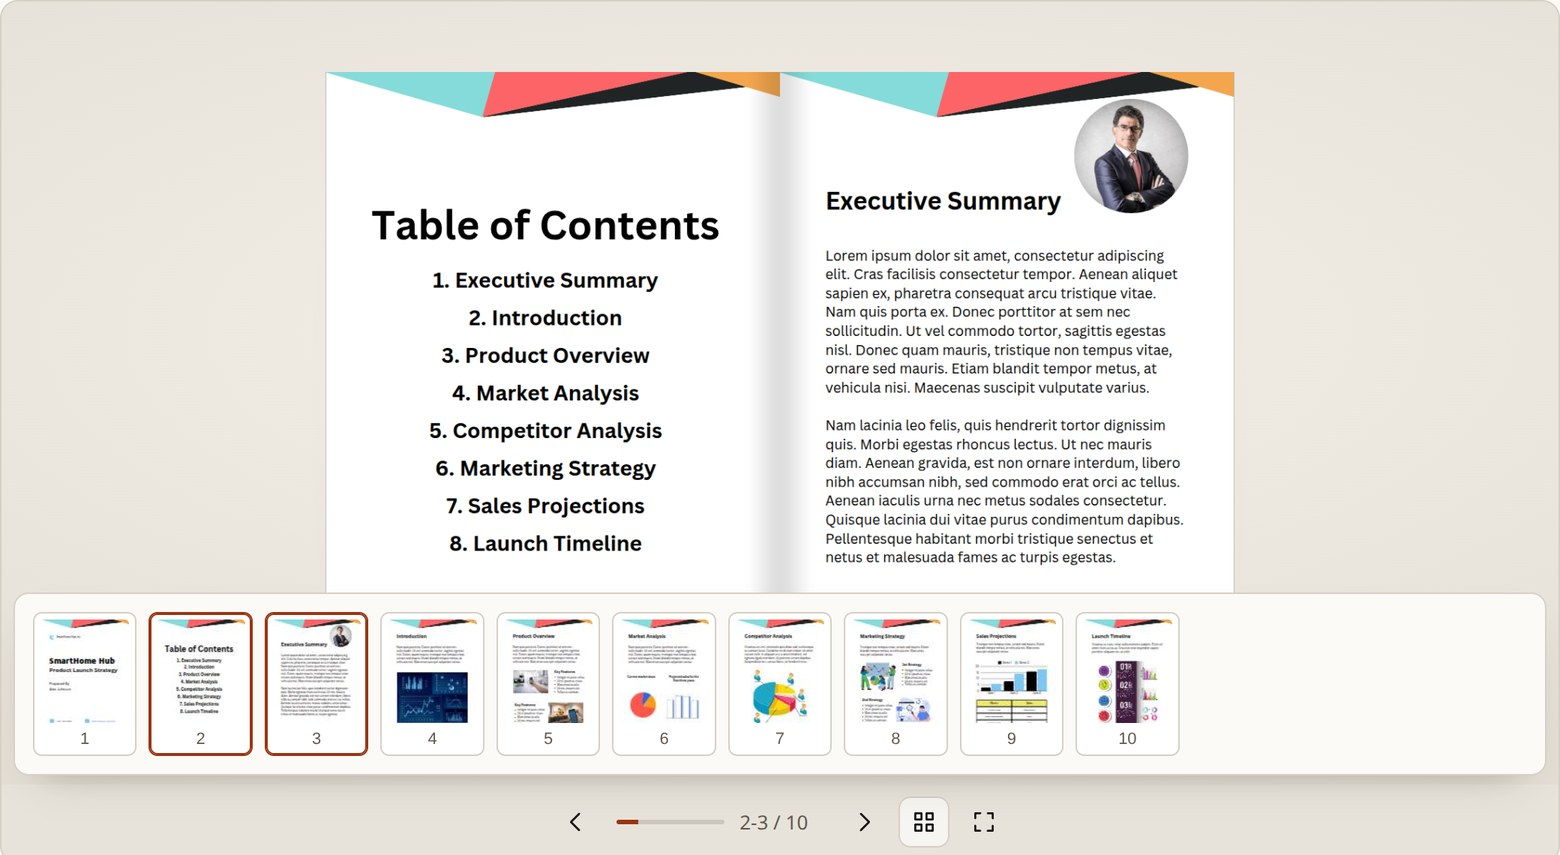
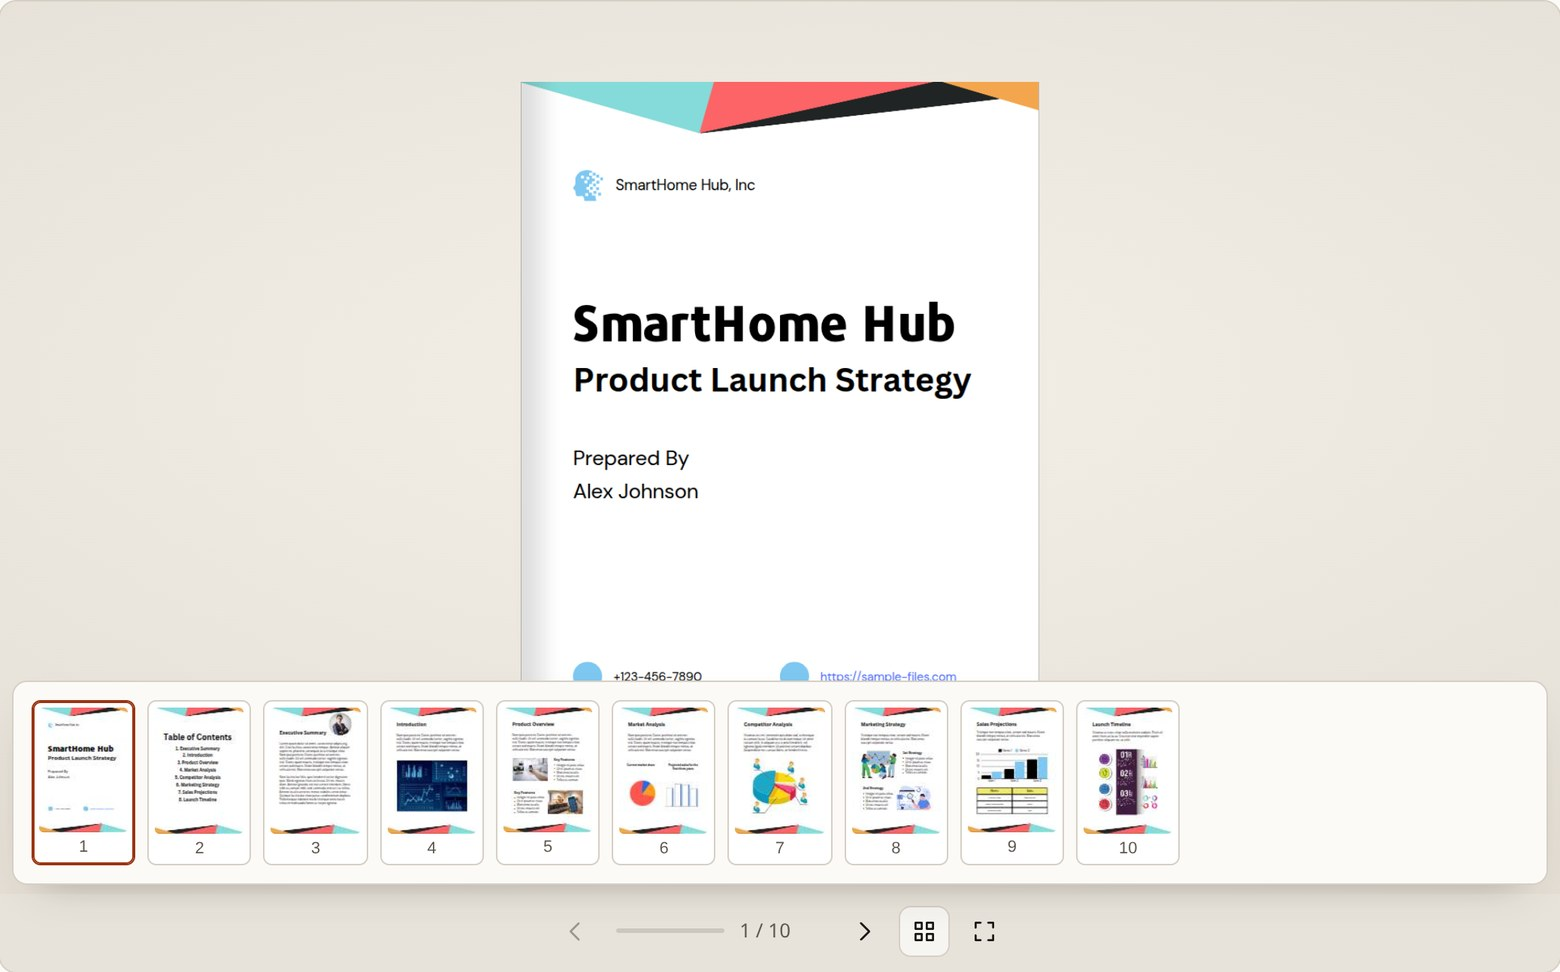
feat: take the size from the container, and stop cropping thumbnails
The viewer already measured its own box, but two things broke in a short
column: the host carried a fixed min-height, which overrode a 300px card, and
the toolbar had no narrow-width handling.

- .fp-host keeps height: 100% and falls back to 240px through
  --fp-min-height, which a caller can lower to 0.
- Container queries drop the progress bar below 300px and the counter below
  220px, so the four buttons always fit.
- The demo gets a "fits the column, not just the row" section: a 380px card,
  a 240px card, and the CSS snippet that produces them.

Thumbnails were cropped in every size: the strip stretched its rows to fit the
panel, so a tile could be shorter than the page inside it. Rows now take their
content height, and each image carries width/height attributes so its box is
reserved before the JPEG decodes.

Tests: 47 browser checks (two new ones assert the image and its box are equal
in the wide drawer and in the 240px card), 26 unit tests.

Changed region(s): [[0.0, 0.0608, 0.9846, 0.9123], [0.4, 0.9427, 0.5231, 0.9731], [0.5846, 0.9427, 0.6462, 0.9731]]

diff --git a/demo/index.html b/demo/index.html
@@ -47,6 +47,23 @@
     overflow: hidden;
     background: var(--desk);
   }
+  .cards {
+    display: flex;
+    flex-wrap: wrap;
+    gap: 26px;
+    align-items: flex-start;
+  }
+  .figure { margin: 0; flex: 0 1 380px; max-width: 100%; }
+  .figure.is-narrow { flex-basis: 240px; }
+  .figure-book {
+    border: 1px solid var(--line);
+    border-radius: 10px;
+    overflow: hidden;
+    background: var(--desk);
+  }
+  .figure figcaption { margin-top: 8px; color: var(--muted); font-size: 13px; }
+  .figure-note { flex: 1 1 300px; min-width: 240px; }
+  .figure-note p { margin-top: 0; color: var(--muted); }
   .hint {
     margin: 10px 0 0;
     color: var(--muted);
@@ -119,6 +136,46 @@
     <span id="page-count">Loading</span>. Drag horizontally to turn, click a side
     to step, or press the arrow keys.
   </p>
+
+  <section>
+    <h2>Fits the column, not just the row</h2>
+    <p style="margin-top:0;max-width:64ch;color:var(--muted)">
+      The viewer measures its own container, so a <code>col-5</code>, a card or a
+      sidebar is enough. The pages scale to that width, and below
+      <code>720px</code> the spread collapses to a single page on its own.
+    </p>
+    <div class="cards">
+      <figure class="figure">
+        <div class="figure-book" style="height: 440px">
+          <div data-flip-pdf data-src="./sample.pdf" data-label="Sample PDF in a 380px card"></div>
+        </div>
+        <figcaption>A 380px card: single page, pages sized to the height.</figcaption>
+      </figure>
+      <figure class="figure is-narrow">
+        <div class="figure-book" style="height: 320px">
+          <div data-flip-pdf data-src="./sample.pdf" data-label="Sample PDF in a 240px card"></div>
+        </div>
+        <figcaption>A 240px card: the progress bar drops out, the counter and buttons stay.</figcaption>
+      </figure>
+      <div class="figure-note">
+        <p>Size it with CSS, not with the plugin:</p>
+<pre><code>.card { width: 380px; height: 440px; }
+
+&lt;div class="card"&gt;
+  &lt;div data-flip-pdf
+       data-src="book.pdf"
+       style="height: 100%"&gt;&lt;/div&gt;
+&lt;/div&gt;
+</code></pre>
+        <p style="margin-bottom:0">
+          Give it a height and the book fills that box at whatever width the
+          column gives. With no height at all it falls back to
+          <code>240px</code>; <code>--fp-min-height: 0</code> removes even that
+          fallback so a short card never overflows.
+        </p>
+      </div>
+    </div>
+  </section>
 
   <section>
     <div class="split">

diff --git a/src/styles.css b/src/styles.css
@@ -8,9 +8,15 @@
   --fp-line: #d6cfc4;
   --fp-accent: #9a3412;
   --fp-radius: 12px;
+  /* The viewer fills the parent's height. A parent with no height gets this
+     floor instead, which a card may lower to 0. */
+  --fp-min-height: 240px;
   display: block;
+  width: 100%;
   height: 100%;
-  min-height: 360px;
+  /* A flex or grid parent must be able to shrink the book to its column. */
+  min-width: 0;
+  min-height: var(--fp-min-height);
   container-type: inline-size;
 }
 
@@ -218,6 +224,10 @@
 .fp-thumbs-grid {
   display: grid;
   grid-template-columns: repeat(auto-fill, minmax(64px, 1fr));
+  /* Rows take the height of the page, never the height of the panel: a
+     stretched row is shorter than its image and crops the thumbnail. */
+  grid-auto-rows: max-content;
+  align-content: start;
   gap: 8px;
   width: 100%;
   overflow-y: auto;
@@ -226,14 +236,15 @@
 
 .fp-thumb {
   position: relative;
-  display: grid;
+  display: flex;
+  flex-direction: column;
+  align-items: stretch;
   gap: 4px;
   padding: 4px;
   border: 1px solid var(--fp-line);
   border-radius: 6px;
   background: #fff;
   cursor: pointer;
-  aspect-ratio: 0.72;
   overflow: hidden;
   transition: border-color 140ms ease, box-shadow 140ms ease;
 }
@@ -253,19 +264,16 @@
 }
 
 .fp-thumb-img {
-  display: grid;
-  place-items: center;
+  display: block;
   overflow: hidden;
   background: #f4f1ec;
   border-radius: 3px;
-  min-height: 0;
 }
 
 .fp-thumb-img img {
   display: block;
   width: 100%;
-  height: 100%;
-  object-fit: contain;
+  height: auto;
 }
 
 .fp-thumb-n {
@@ -304,6 +312,27 @@
   }
   .fp-bar {
     padding-inline: 6px;
+  }
+}
+
+/* The progress bar is the first thing to go: the counter still reports the
+   position, and the four buttons are what a small card actually needs. */
+@container (max-width: 300px) {
+  .fp-bar {
+    gap: 4px;
+    padding: 6px 8px 8px;
+  }
+  .fp-progress {
+    display: none;
+  }
+  .fp-readout {
+    padding: 0;
+  }
+}
+
+@container (max-width: 220px) {
+  .fp-counter {
+    display: none;
   }
 }
 

diff --git a/src/flipbook.js b/src/flipbook.js
@@ -953,7 +953,13 @@ export class Flipbook {
     if (cached) return cached;
     const job = this.source
       .render(page, 96, { maxPixels: 192 })
-      .then((raster) => raster.canvas.toDataURL("image/jpeg", 0.72))
+      // The image keeps its intrinsic ratio as width/height attributes, so the
+      // tile reserves the right height before the JPEG has decoded.
+      .then((raster) => ({
+        url: raster.canvas.toDataURL("image/jpeg", 0.72),
+        width: raster.canvas.width,
+        height: raster.canvas.height,
+      }))
       .catch(() => null);
     this.thumbUrls.set(page, job);
     return job;
@@ -970,12 +976,12 @@ export class Flipbook {
       while (cursor < queue.length) {
         if (this.destroyed || this.nodes.panel.hidden) return;
         const button = queue[cursor++];
-        const url = await this._thumbUrl(Number(button.dataset.page));
-        if (!url || button.dataset.painted || this.destroyed) continue;
-        const img = new Image();
+        const thumb = await this._thumbUrl(Number(button.dataset.page));
+        if (!thumb || button.dataset.painted || this.destroyed) continue;
+        const img = new Image(thumb.width, thumb.height);
         img.decoding = "async";
         img.alt = "";
-        img.src = url;
+        img.src = thumb.url;
         button.querySelector(".fp-thumb-img").append(img);
         button.dataset.painted = "1";
       }

diff --git a/CHANGELOG.md b/CHANGELOG.md
@@ -6,7 +6,25 @@ the usual 0.x caveat that the public surface may still move.
 
 ## [Unreleased]
 
-Nothing yet.
+### Fixed
+
+- A container shorter than 360 px was overridden by the viewer's own
+  `min-height`, so the toolbar ended up outside the card and the book was
+  clipped. The viewer now takes the height it is given; the fallback for a
+  height-less parent is `240px` and can be lowered with `--fp-min-height`.
+- The toolbar clipped the fullscreen button in containers narrower than about
+  220 px.
+- Thumbnails were cropped: the strip stretched its rows to fit the panel, so a
+  tile could be shorter than the page inside it. Rows now take their content
+  height, and each image keeps its intrinsic ratio through `width`/`height`
+  attributes, so a thumbnail always shows the whole page.
+
+### Added
+
+- Container queries for narrow columns: the progress bar drops out below 300 px
+  and the counter below 220 px, so navigation never overflows.
+- A "fits the column" section in the demo, showing the same document at 380 px
+  and 240 px.
 
 ## [0.1.0] - 2026-11-12
 

diff --git a/AGENTS.md b/AGENTS.md
@@ -29,6 +29,12 @@ Rules that break it if ignored:
 
 - **The container needs an explicit height.** The viewer fills it and letterboxes
   the book inside. A zero-height container renders nothing.
+- **Width comes from the container, so never set one.** A `col-5`, a card or a
+  sidebar is fine; `mode: "auto"` switches to a single page below `720px`, the
+  toolbar hides the progress bar under `300px` and the counter under `220px`.
+  Do not build your own responsive switching.
+- **A height-less container falls back to `240px`.** Lower it with
+  `--fp-min-height: 0` when the card is shorter than that.
 - **Serve over HTTP.** A `file://` page cannot load the worker module or fetch
   the PDF.
 - **Do not wrap it in your own pager.** Arrow keys, drag, click, trackpad and

diff --git a/README.md b/README.md
@@ -64,6 +64,12 @@ or `data-fit="0.9"` work without writing JavaScript.
 Give the container a height. The viewer fills it and letterboxes the book inside,
 so nothing is clipped and nothing overflows.
 
+The container also decides the width, so this works in a `col-5`, a card or a
+sidebar, not just a full row. Below `720px` of container width the `auto` mode
+collapses the spread to a single page, and the toolbar drops the progress bar
+before it runs out of room. With no height at all the viewer falls back to
+`240px`, which a short card can lower with `--fp-min-height: 0`.
+
 ### From a module
 
 ```js
